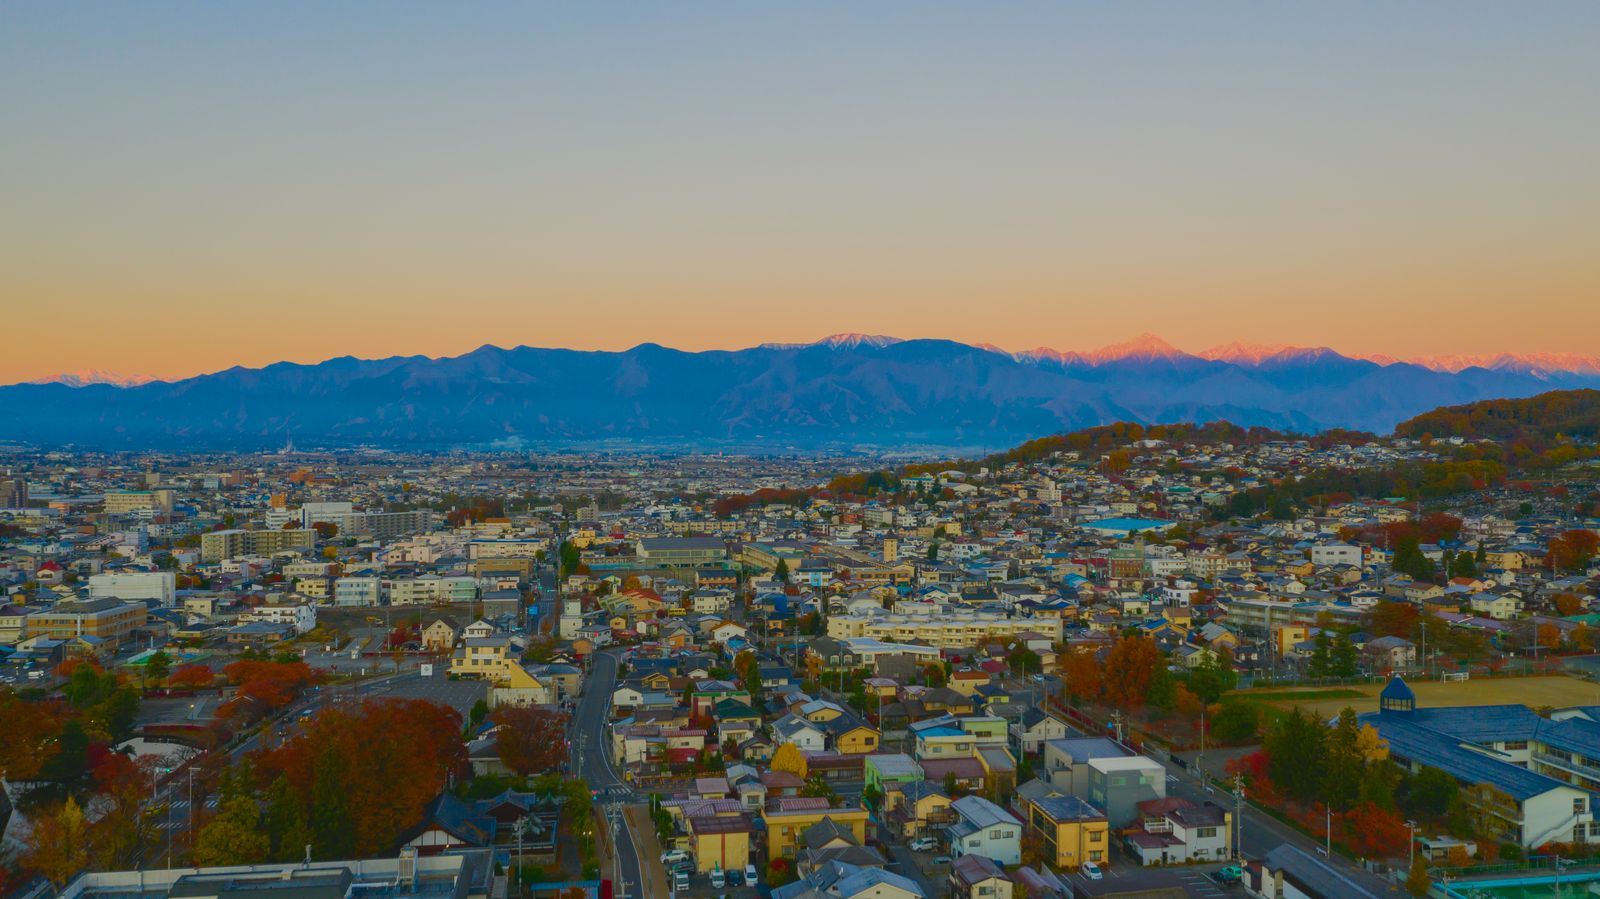
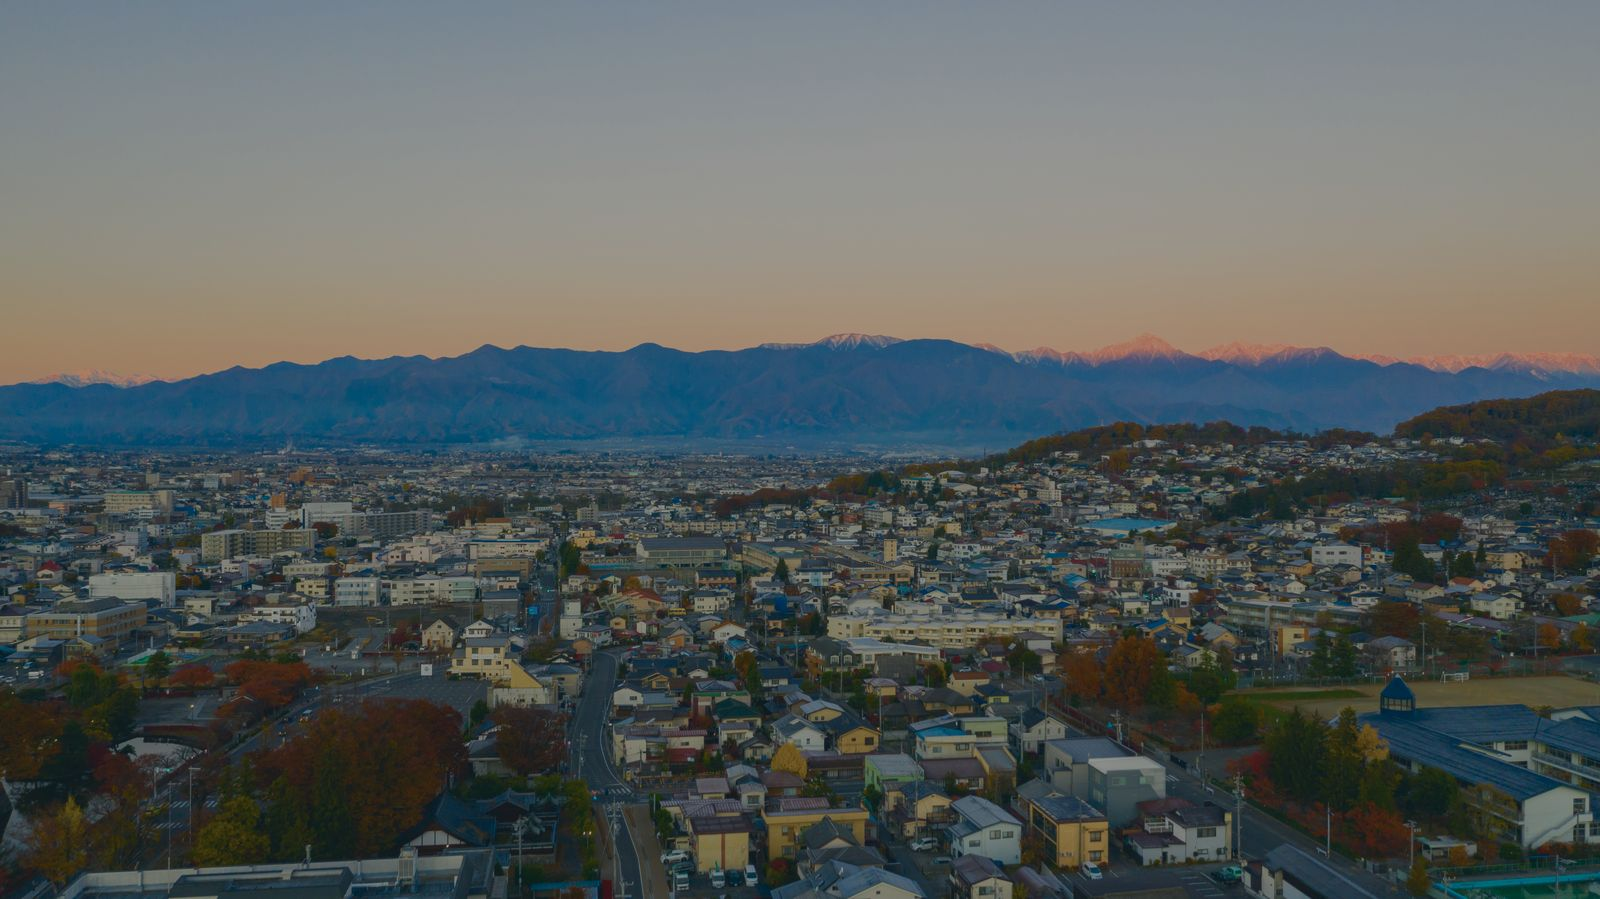
FOR YOUをMVに合わせたシネマ調に、SPECIALの高さをそろえる、協賛欄に写真
- FOR YOU：彩度と明度を落とし、影を寒色・ハイライトを暖色に（MVと同じ見え方）
- SPECIAL：全タイル同じ高さ（PC 183px／SP 136px）、KICKOFFの日付はロゴ欄左上の小さな札に
- 協賛欄：大人から子どもへボールを手渡す写真（Magnific・ライセンス取得済み、同じ色調）

Claude-Session: https://claude.ai/code/session_01FQgtGQXKrTm5tdMPQkMAhc

diff --git a/NFA_site_design/assets/css/style.css b/NFA_site_design/assets/css/style.css
@@ -1537,6 +1537,37 @@ a:hover .arr{transform:translateX(3px)}
 }
 .spc-i [alt^="天皇杯"],.spc-i [alt^="皇后杯"]{max-height:86px}
 @media (max-width:767px){.spc-i [alt^="天皇杯"],.spc-i [alt^="皇后杯"]{max-height:54px}.spc-dl strong{font-size:13.5px;white-space:nowrap}}
+/* v27: SPECIAL 全タイル同じ高さ（ロゴ欄を固定）、KICKOFFの日付は左上の小さな札 */
+.spc-lg{flex:0 0 auto;height:128px;min-height:0;padding:22px 28px;position:relative}
+.spc-lg img{max-height:64px}
+.spc-k .spc-lg img{max-height:48px}
+.spc-i [alt^="天皇杯"],.spc-i [alt^="皇后杯"]{max-height:70px}
+.spc-i [alt="JFA女子サッカーデー"]{max-height:70px}
+.spc-k .spc-lg{padding-top:30px}
+.spc-dl{position:absolute;left:12px;top:10px;display:inline-flex;align-items:center;gap:6px;padding:0;background:none;color:var(--navy);font-size:10.5px;font-weight:700;letter-spacing:.02em;line-height:1}
+.spc-dl em{font-style:normal;font-family:var(--f-en);font-weight:800;letter-spacing:.04em;background:var(--navy);color:#fff;padding:3px 6px;margin:0}
+.spc-tx{padding:12px 18px 13px}
+@media (max-width:767px){
+  .spc-lg{height:92px;padding:14px 12px}
+  .spc-lg img{max-height:44px}
+  .spc-k .spc-lg{padding-top:26px}
+  .spc-k .spc-lg img{max-height:30px}
+  .spc-i [alt^="天皇杯"],.spc-i [alt^="皇后杯"]{max-height:50px}
+  .spc-i [alt="JFA女子サッカーデー"]{max-height:50px}
+  .spc-dl{left:8px;top:8px;font-size:9px;gap:4px}
+  .spc-dl em{padding:2px 4px}
+  .spc-tx{padding:9px 12px 10px}
+}
+@media (max-width:767px){
+  .spc-dl{white-space:nowrap;font-size:8.5px;left:7px;right:7px;top:7px;gap:4px;letter-spacing:0}
+  .spc-dl em{font-size:8.5px;padding:2px 4px}
+  .spc-k::after{display:none}
+  .spc-k .spc-lg{padding-top:28px}
+}
+.spc-dl{flex-direction:row;flex-wrap:nowrap;justify-content:flex-start;align-items:center}
+@media (max-width:767px){.spc-dl{flex-direction:row;flex-wrap:nowrap;justify-content:flex-start;align-items:center;padding:0}}
+/* v28: 協賛欄の写真の切り抜き位置 */
+.part .ph img[src$="pt-main.jpg"]{object-position:56% 50%}
 /* ===== 404.html ===== */
 .nf-hero{background:var(--navy);color:#fff;position:relative;overflow:hidden}
 .nf-hero .wrap{position:relative;padding-block:56px 60px}

diff --git a/NFA_site_design/index.html b/NFA_site_design/index.html
@@ -197,7 +197,7 @@
 <!-- F: PARTNERSHIP -->
 <section class="sec" id="partner">
 <div class="wrap part">
-<div class="ph rv"><img alt="夕暮れの土手を並んで歩く親子" class="px" src="assets/img/ph-photo.jpg"/></div>
+<div class="ph rv"><img alt="グラウンドで大人から子どもへボールを手渡す場面" class="px" src="assets/img/pt-main.jpg"/></div>
 <div>
 <div class="kicker" style="color:var(--cyan)">PARTNERSHIP</div>
 <h2>スポンサー募集の<br/>お願い</h2>
@@ -213,9 +213,8 @@
 <div class="sh"><div class="e">SPECIAL</div><span class="j">特設・登録</span></div>
 <div class="spc">
 <a class="spc-i spc-k" href="https://www.nagano-fa.or.jp/news_top/office_news/37265" rel="noopener" target="_blank">
-<span class="spc-lg"><img alt="JFA KICKOFF ONLINE REGISTRATION SITE" height="134" loading="lazy" src="assets/img/spc-kickoff.png" width="561"/></span>
+<span class="spc-lg"><span class="spc-dl"><em>2026年度</em>受付 2月13日（金）6:00〜</span><img alt="JFA KICKOFF ONLINE REGISTRATION SITE" height="134" loading="lazy" src="assets/img/spc-kickoff.png" width="561"/></span>
 <span class="spc-tx"><b>KICKOFF登録について</b></span>
-<span class="spc-dl"><span class="spc-dl-l"><em>2026年度</em><span class="nw">継続申請の受付</span></span><strong><span class="nw">2月13日（金）</span><span class="nw">6:00〜</span></strong></span>
 </a>
 <a class="spc-i" href="https://www.nagano-fa.or.jp/emperorscup" rel="noopener" target="_blank">
 <span class="spc-lg"><img alt="天皇杯 JFA CHAMPIONSHIP" height="122" loading="lazy" src="assets/img/spc-tennou.png" width="242"/></span>

diff --git a/tools/gfx/grade_fy.py b/tools/gfx/grade_fy.py
@@ -3,8 +3,8 @@ import numpy as np
 from PIL import Image
 from skimage import color
 SRC='/home/claude/web/mv/lic/'; OUT='/home/claude/web/build/src_assets/'
-F=[('F_dev','fy-dev'),('F_start','fy-start'),('F_comm','fy-comm')]
-T=dict(L=47.0, sd=19.0, a=-1.0, b=4.0, C=17.0)   # 目標：明度・ばらつき・色味（わずかに暖色）・彩度
+F=[('F_dev','fy-dev'),('F_start','fy-start'),('F_comm','fy-comm'),('P_partner','pt-main')]
+T=dict(L=40.0, sd=18.0, a=-1.0, b=1.5, C=9.0)   # 目標：明度・ばらつき・色味（わずかに暖色）・彩度
 def crop169(lab):
     h,w=lab.shape[:2]; ch=int(w*9/16); 
     if ch>h: cw=int(h*16/9); x=(w-cw)//2; return lab[:,x:x+cw]
@@ -15,12 +15,12 @@ for s,d in F:
     v=crop169(lab); vL,va,vb=v[...,0],v[...,1],v[...,2]
     # 明度：平均とばらつきを一致
     L=(L-vL.mean())/max(vL.std(),1e-3)*T['sd']+T['L']
-    x=np.clip(L/100,0,1); x=0.03+0.94*((3*x**2-2*x**3)*0.4+x*0.6); L=np.clip(x*100,1,97)
+    x=np.clip(L/100,0,1); x=0.06+0.86*((3*x**2-2*x**3)*0.45+x*0.55); L=np.clip(x*100,5,92)
     # 色味：平均の色かぶりを完全に取り除いてから、共通の色味を足す
     a=a-va.mean(); b=b-vb.mean()
     C=np.hypot(a,b); vC=np.hypot(va-va.mean(),vb-vb.mean()).mean()
-    k=T['C']/max(vC,1e-3); C2=C*k; C2=np.where(C2>36,36+(C2-36)*0.35,C2); s_=np.where(C>1e-6,C2/np.maximum(C,1e-6),0); a,b=a*s_,b*s_
-    t=np.clip(L/100,0,1); a=a+T['a']+(t-0.5)*1.0; b=b+T['b']+(t-0.5)*6.0
+    k=T['C']/max(vC,1e-3); C2=C*k; C2=np.where(C2>26,26+(C2-26)*0.3,C2); s_=np.where(C>1e-6,C2/np.maximum(C,1e-6),0); a,b=a*s_,b*s_
+    t=np.clip(L/100,0,1); sh=np.clip(1-t*2,0,1); hi=np.clip(t*2-1,0,1); a=a+T['a']-sh*2.5+hi*1.5; b=b+T['b']-sh*7.0+hi*6.0
     out=np.clip(color.lab2rgb(np.dstack([L,a,b])),0,1)
     o=(out*255+0.5).astype(np.uint8); Image.fromarray(o).save(OUT+d+'.jpg',quality=80,optimize=True,progressive=True)
     r=crop169(color.rgb2lab(out)); print(d,'L%.1f sd%.1f a%.1f b%.1f C%.1f'%(r[...,0].mean(),r[...,0].std(),r[...,1].mean(),r[...,2].mean(),np.hypot(r[...,1],r[...,2]).mean()))
